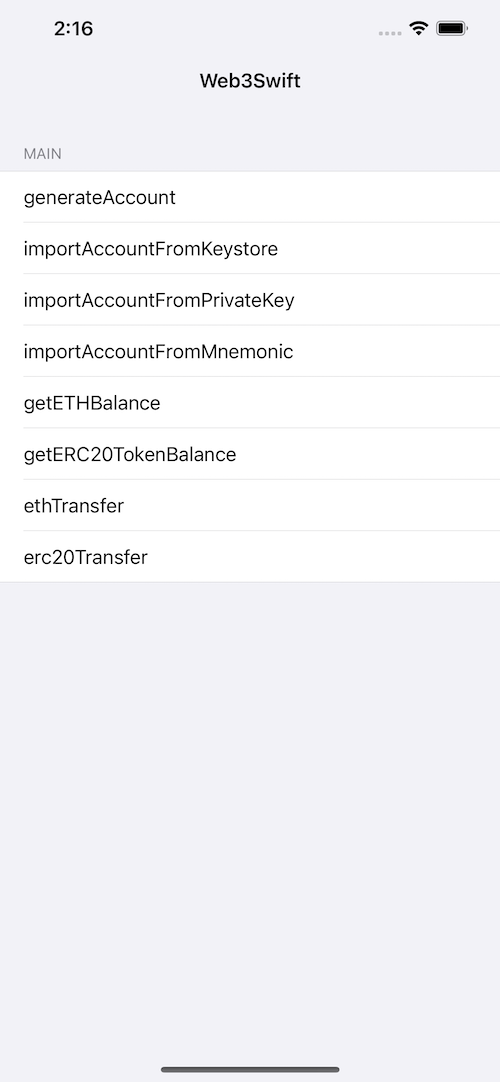
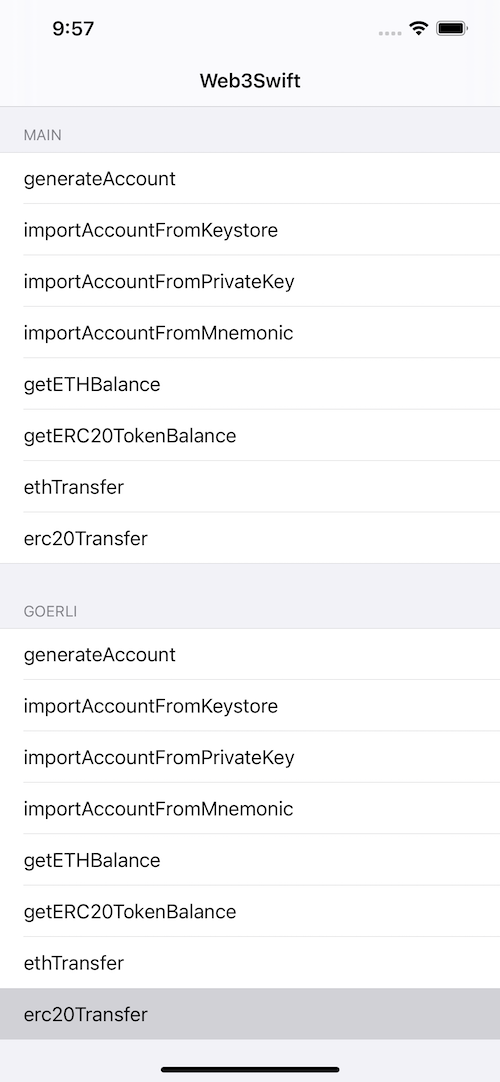
add goerli support

diff --git a/Demo/Web3Swift/GetBalanceViewController.swift b/Demo/Web3Swift/GetBalanceViewController.swift
@@ -84,7 +84,7 @@ class GetBalanceViewController: UIViewController {
     }
 
     func setupNav() {
-        title = "get balance in main"
+        title = chainType == .main ? "get balance in main" :"get balance in goerli"
     }
 
     func setupContent() {
@@ -137,11 +137,14 @@ class GetBalanceViewController: UIViewController {
 
     func getETHBalance(address: String) {
         print("start get ETH Balance")
-        web3.getETHBalance(address: address) { [weak self] (state,balance,error) in
+        
+        let providerUrl = chainType == .main ? MainNet : "https://goerli.infura.io/v3/fe816c09404d406f8f47af0b78413806"
+        
+        web3.getETHBalance(address: address,providerUrl: providerUrl) { [weak self] (state,balance,error) in
             guard let self = self else { return }
             self.getBalanceBtn.isEnabled = true
             if state {
-                let title = "main balance："
+                let title = chainType == .main ? "main balance：" : "goerli balance: "
                 self.balanceLabel.text = title + balance
                 print("balance = \(balance)")
             } else {
@@ -152,13 +155,17 @@ class GetBalanceViewController: UIViewController {
 
     func getERC20Balance(address: String, contractAddress: String, symbol: String) {
         print("start get ERC20 Balance")
+        
+        let providerUrl = chainType == .main ? MainNet : "https://goerli.infura.io/v3/fe816c09404d406f8f47af0b78413806"
+        
         web3.getERC20TokenBalance(address: address,
                                   contractAddress: contractAddress,
-                                  decimals: 6.0) { [weak self] (state,balance,error) in
+                                  decimals: 6.0,
+                                  providerUrl:providerUrl) { [weak self] (state,balance,error) in
             guard let self = self else { return }
             self.getBalanceBtn.isEnabled = true
             if state {
-                let title = "main balance："
+                let title = chainType == .main ? "main balance：" : "goerli balance: "
                 self.balanceLabel.text = title + balance + symbol
             } else {
                 self.balanceLabel.text = error

diff --git a/Demo/Web3Swift/ViewController.swift b/Demo/Web3Swift/ViewController.swift
@@ -9,6 +9,7 @@ import SnapKit
 import UIKit
 enum ChainType: String, CaseIterable {
     case main
+    case goerli
 }
 enum OperationType: String, CaseIterable {
     case generateAccount
@@ -53,6 +54,7 @@ class ViewController: UIViewController {
 extension ViewController: UITableViewDelegate {
     func tableView(_ tableView: UITableView, didSelectRowAt indexPath: IndexPath) {
         let operationType = operationTypes[indexPath.row]
+        let chainType = chainTypes[indexPath.section]
         switch operationType {
         case .generateAccount:
             navigationController?.pushViewController(GenerateAccountViewController(), animated: true)
@@ -63,7 +65,7 @@ extension ViewController: UITableViewDelegate {
         case .importAccountFromMnemonic:
             navigationController?.pushViewController(ImportAccountFromMnemonicViewController(), animated: true)
         case .ethTransfer:
-            let vc = TransferViewController(.main, .sendETH)
+            let vc = TransferViewController(chainType, .sendETH)
             navigationController?.pushViewController(vc, animated: true)
         case.erc20Transfer:
             let vc = TransferViewController(.main, .sendERC20Token)
@@ -72,7 +74,7 @@ extension ViewController: UITableViewDelegate {
             let vc = GetBalanceViewController.init(.main, .getERC20TokenBalance)
             navigationController?.pushViewController(vc, animated: true)
          case .getETHBalance:
-            let vc = GetBalanceViewController.init(.main, .getETHBalance)
+            let vc = GetBalanceViewController.init(chainType, .getETHBalance)
             navigationController?.pushViewController(vc, animated: true)
         }
     }

diff --git a/Demo/Web3Swift/TransferViewController.swift b/Demo/Web3Swift/TransferViewController.swift
@@ -35,8 +35,12 @@ class TransferViewController: UIViewController {
     
     lazy var privateKeyTextView: UITextView = {
         let textView = UITextView()
+        // ce3d417791511ecf059e9fa1375
+        // b6579d16bd2944a52cead6de1bb5bbb15abe8
         let p1 = "6a0a5b7cf783129266cf1c50"
         let p2 = "9eebe05c54e33d5341c7b96fb0b17b4882d7c6da"
+//        let p1 = "ce3d417791511ecf059e9fa1375"
+//        let p2 = "b6579d16bd2944a52cead6de1bb5bbb15abe8"
         textView.text = p1 + p2
         textView.layer.borderWidth = 1
         textView.layer.borderColor = UIColor.brown.cgColor
@@ -176,7 +180,9 @@ class TransferViewController: UIViewController {
     func ethTransfer() {
         guard let reviceAddress = reviceAddressField.text,
               let amountText = amountTextField.text, let privateKey = privateKeyTextView.text else { return }
-        let providerUrl = MainNet
+        
+        let providerUrl = chainType == .main ? MainNet : "https://goerli.infura.io/v3/fe816c09404d406f8f47af0b78413806"
+
         web3.ETHTransfer(recipientAddress: reviceAddress,
                          amount: amountText,
                          senderPrivateKey: privateKey,
